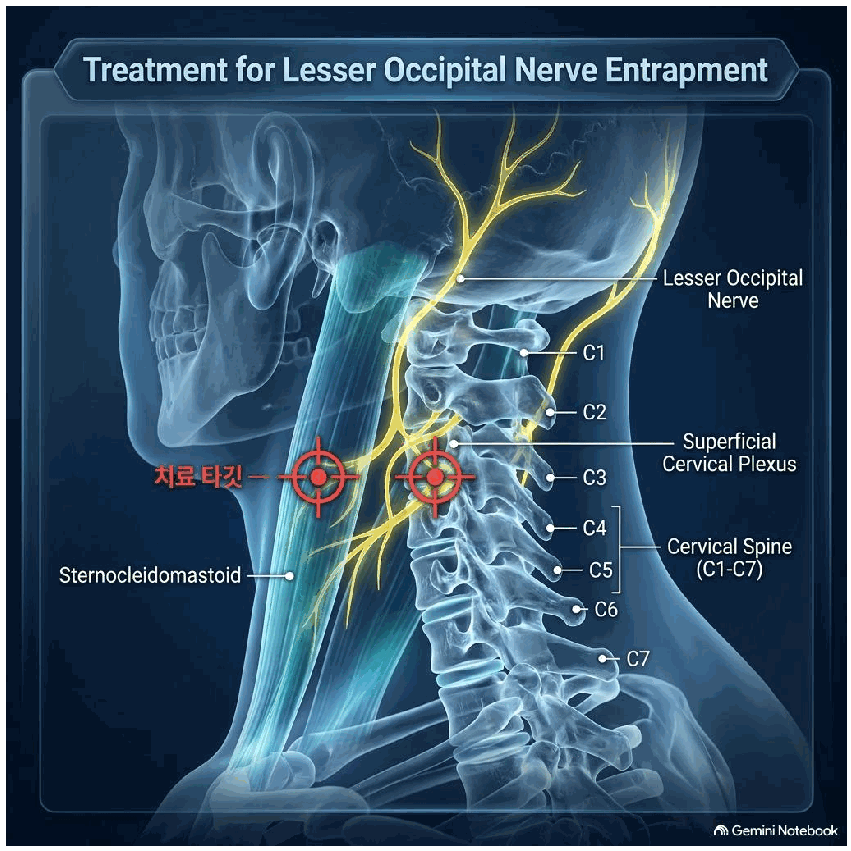
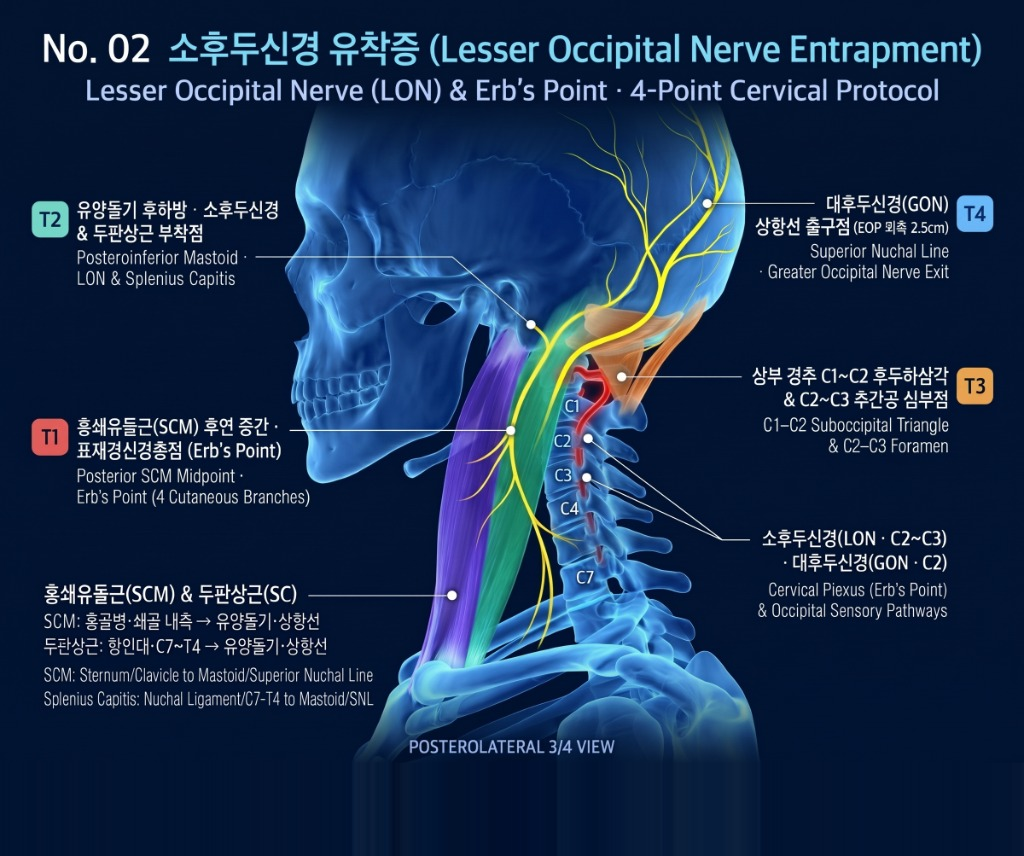
feat(healing-app): fix No.02 title to 소후두신경 유착증, upgrade LON plate, align T1-T4 pins

diff --git a/healing-app/js/pain_data.js b/healing-app/js/pain_data.js
@@ -270,13 +270,13 @@ window.PAIN_CONDITIONS = [
     },
     "mechanism": {
       "ko": "신경유착",
-      "en": "[신경유착] Nerve Entrapment"
+      "en": "Nerve Entrapment"
     },
     "mechTags": [
       "nerve"
     ],
     "title": {
-      "ko": "소두후신경 유착증",
+      "ko": "소후두신경 유착증",
       "en": "Lesser Occipital Nerve (LON) Entrapment"
     },
     "symptoms": {
@@ -288,12 +288,12 @@ window.PAIN_CONDITIONS = [
       "en": "Lesser occipital nerve (LON), a branch of superficial cervical plexus, is entrapped by trigger points in mid-SCM or C2/C3 intervertebral foramina / deep paraspinal muscles."
     },
     "targetTissues": {
-      "ko": "흉쇄유돌근(SCM) 중간 부위, C2/C3 추간공 및 척추주위 심부근육.",
-      "en": "Middle portion of sternocleidomastoid (SCM), C2/C3 intervertebral foramina, and deep paraspinal muscles."
+      "ko": "흉쇄유돌근(SCM · 기시: 흉골병·쇄골 내측 / 정지: 유양돌기·상항선), 두판상근(SC · 기시: 항인대·C7~T4 / 정지: 유양돌기·상항선), 표재경신경총(Erb's Point), 소후두신경(LON · C2~C3), 대후두신경(GON · C2) 및 C1~C2 후두하삼각.",
+      "en": "Sternocleidomastoid (SCM), Splenius Capitis (SC), Superficial Cervical Plexus (Erb's Point), Lesser Occipital Nerve (LON, C2-C3), Greater Occipital Nerve (GON, C2), and C1-C2 Suboccipital Triangle."
     },
     "palpation": {
-      "ko": "흉쇄유돌근(SCM) 후연 중간 지점(경신경총 4개 감각가지 분지점)을 집어 올렸을 때(pinch & roll) 뚜렷한 압통점.",
-      "en": "Distinct tenderness elicited by pinching and rolling (Pinch & Roll) posterior border of mid-SCM (branching point of 4 sensory branches of superficial cervical plexus)."
+      "ko": "① 흉쇄유돌근(SCM) 후연 중간 표재경신경총점(Erb's Point · Pinch & Roll 압통점) ② 유양돌기 후하방 소후두신경 & 두판상근 부착점 ③ 상부 경추 C1~C2 후두하삼각 & C2~C3 추간공 심부점 ④ 대후두신경(GON) 상항선 출구점(EOP 외측 2.5cm).",
+      "en": "1) Posterior SCM midpoint Erb's point (Pinch & Roll) 2) Posteroinferior mastoid LON & splenius capitis 3) C1-C2 suboccipital triangle & C2-C3 foramen 4) Superior nuchal line GON exit (2.5cm lateral to EOP)."
     },
     "clinicalCase": {
       "ko": "귀 뒤쪽과 후두부 외측의 바늘로 찌르는 듯한 박동성 신경통으로 수면 장애를 겪던 사례. 흉쇄유돌근(SCM) 후연 신경 유착 지점 및 C2, C3 분절에 NovaCell Therapy를 적용하여 신경 압박을 이완시켰으며, 시술 당일 통증 소실 및 편안한 숙면 회복.",
@@ -304,84 +304,84 @@ window.PAIN_CONDITIONS = [
       {
         "code": "T1",
         "color": "#ff334b",
-        "x": 37.1,
-        "y": 56.8,
+        "x": 49.8,
+        "y": 50.2,
         "role": {
           "ko": "주 신경포착점",
           "en": "Primary Nerve Entrapment"
         },
         "name": {
-          "ko": "T1: 흉쇄유돌근(SCM) 후연 중간 표재경신경총점 (Erb's Point)",
-          "en": "T1: SCM Posterior Border Erb's Point (LON Exit)"
+          "ko": "T1: 흉쇄유돌근(SCM) 후연 중간 · 표재경신경총점 (Erb's Point)",
+          "en": "T1: Posterior SCM Midpoint · Erb's Point (4 Cutaneous Branches)"
         },
         "desc": {
-          "ko": "[표적 해부] 표재경신경총 4대 피지 분기점(Erb's point) 및 소후두신경(LON, C2-C3).\n[촉지 및 시술] 흉쇄유돌근 후연 중간 지점을 집어 올릴 때(Pinch & Roll) 가장 예리한 압통점. 귀 뒤·측두부 바늘로 찌르는 통증의 1차 포착점입니다.",
-          "en": "Mid-posterior border of SCM (Erb's point) where Lesser Occipital Nerve emerges."
+          "ko": "[표적 해부] 표재경신경총 4대 피지 분기점(Erb's Point) 및 소후두신경(LON, C2~C3) 출구.\n[촉지 및 시술] 흉쇄유돌근 후연 중간 지점을 집어 올릴 때(Pinch & Roll) 가장 예리한 압통점. 귀 뒤·측두부 바늘로 찌르는 듯한 신경통의 1차 포착점입니다.",
+          "en": "Mid-posterior border of SCM (Erb's point) where the 4 cutaneous branches and Lesser Occipital Nerve emerge."
         }
       },
       {
         "code": "T2",
         "color": "#00f5d4",
-        "x": 56.0,
-        "y": 54.0,
+        "x": 51.8,
+        "y": 37.8,
         "role": {
           "ko": "힘줄·골막 부착점",
           "en": "Tendon & Periosteal Target"
         },
         "name": {
-          "ko": "T2: 유양돌기 후하방 소후두신경-두판상근 부착점 (골막 부착부)",
-          "en": "T2: Retro-Mastoid LON & Splenius Capitis Insertion"
+          "ko": "T2: 유양돌기 후하방 · 소후두신경 & 두판상근 부착점",
+          "en": "T2: Posteroinferior Mastoid · LON & Splenius Capitis"
         },
         "desc": {
-          "ko": "[표적 해부] 유양돌기 후하방 두판상근·흉쇄유돌근 상부 골막 부착부 및 소후두신경 상행로.\n[촉지 및 시술] 귀 뒤 유양돌기 바로 뒤쪽 오목한 골막 경계부(완골~풍지 구간). 귀 뒤쪽과 측두부 두피 통증을 즉각 소실시킵니다.",
-          "en": "Retro-mastoid groove at splenius capitis & SCM superior insertion."
+          "ko": "[표적 해부] 유양돌기 후하방 두판상근(SC)·흉쇄유돌근(SCM) 상부 골막 부착부 및 소후두신경(LON) 상행로.\n[촉지 및 시술] 귀 뒤 유양돌기 바로 뒤쪽 오목한 골막 경계부(완골~풍지 구간). 귀 뒤쪽과 측두부 두피 통증을 즉각 소실시킵니다.",
+          "en": "Posteroinferior mastoid groove at the splenius capitis & SCM insertion along the ascending LON pathway."
         }
       },
       {
         "code": "T3",
         "color": "#ff9f43",
-        "x": 49.0,
-        "y": 71.0,
+        "x": 60.7,
+        "y": 43.9,
         "role": {
           "ko": "후관절·신경근점",
           "en": "Facet & Nerve Root Target"
         },
         "name": {
-          "ko": "T3: 상부 경추 C1-C2 후두하삼각 및 C2-C3 추간공 심부점",
-          "en": "T3: Suboccipital Triangle (C1-C2) & C2-C3 Foramen"
+          "ko": "T3: 상부 경추 C1~C2 후두하삼각 & C2~C3 추간공 심부점",
+          "en": "T3: C1-C2 Suboccipital Triangle & C2-C3 Foramen"
         },
         "desc": {
-          "ko": "[표적 해부] 상·하두사근, 대후두직근 사이 후두하삼각 및 추골동맥 주위 교감신경총.\n[촉지 및 시술] 상항선 아래 C2 극돌기 외측 2cm 오목한 함요처. 뇌혈류 순환 촉진 및 후두신경 근위부 포착 해소 핵심 스위치입니다.",
-          "en": "Suboccipital triangle core & C2-C3 intervertebral foramen."
+          "ko": "[표적 해부] 상·하두사근, 대후두직근 사이 C1~C2 후두하삼각(추골동맥 주위 교감신경총) 및 C2~C3 추간공 심부.\n[촉지 및 시술] 상항선 아래 C2 극돌기 외측 2cm 오목한 함요처. 뇌혈류 순환 촉진 및 소후두·대후두신경 근위부 포착 해소 핵심 스위치입니다.",
+          "en": "Suboccipital triangle core (C1-C2) and C2-C3 intervertebral foramen relieving proximal occipital nerve tension."
         }
       },
       {
         "code": "T4",
         "color": "#38bdf8",
-        "x": 62.0,
-        "y": 38.0,
+        "x": 69.0,
+        "y": 23.7,
         "role": {
           "ko": "신경 주행·분지점",
           "en": "Nerve Pathway Target"
         },
         "name": {
-          "ko": "T4: 대후두신경 상항선 출구점 (외후두융기 외측 2.5cm)",
-          "en": "T4: Greater Occipital Nerve Superior Nuchal Line Exit"
+          "ko": "T4: 대후두신경(GON) 상항선 출구점 (EOP 외측 2.5cm)",
+          "en": "T4: Superior Nuchal Line · Greater Occipital Nerve Exit"
         },
         "desc": {
-          "ko": "[표적 해부] 대후두신경(C2 후지) 승모근 및 두반극근 부착건막 관통부.\n[촉지 및 시술] 외후두융기(EOP)에서 외측 2~2.5cm 상항선 바로 아래 압통점. 후두부~두정부 방사통을 동시 차단합니다.",
-          "en": "GON exit 2.5cm lateral to EOP just below superior nuchal line."
+          "ko": "[표적 해부] 대후두신경(GON, C2 후지)이 승모근 및 두반극근 부착건막을 관통해 나오는 상항선 출구.\n[촉지 및 시술] 외후두융기(EOP) 외측 2~2.5cm 상항선 바로 아래 압통점. 후두부에서 정수리로 뻗치는 연계 방사통을 동시 차단합니다.",
+          "en": "Greater occipital nerve exit 2.5cm lateral to the external occipital protuberance (EOP) along the superior nuchal line."
         }
       }
     ],
     "anatomicalLabels": [
-      "Lesser Occipital Nerve",
-      "Sternocleidomastoid (SCM)",
-      "Splenius Capitis",
-      "C2-C3 Cervical Root"
+      "Posterior SCM Midpoint · Erb's Point (4 Cutaneous Branches)",
+      "Posteroinferior Mastoid · LON & Splenius Capitis",
+      "C1-C2 Suboccipital Triangle & C2-C3 Foramen",
+      "Superior Nuchal Line · Greater Occipital Nerve (GON) Exit"
     ],
     "rifeFreq": 787,
-    "searchKeywords": "소두후신경 유착증 Lesser Occipital Nerve (LON) Entrapment 귀 뒤쪽, 목 전외측, 두피 옆면이 바늘로 콕콕 쑤시듯 아프고 피부 타진 시 극심한 자각통 발생. Stabbing, needle-like pain behind the ear, anterolateral neck, and lateral scalp, with severe tactile dysesthesia upon tapping. 두경부 및 안면 질환 Head, Neck & Facial Disorders"
+    "searchKeywords": "소후두신경 유착증 소후두신경통 귀 뒤쪽 통증 바늘로 찌르는 통증 표재경신경총 Erb's Point Lesser Occipital Nerve Entrapment LON 흉쇄유돌근 SCM 두판상근 유양돌기 후두하삼각 대후두신경 GON 두경부 및 안면 질환 Head Neck Facial Disorders"
   },
   {
     "id": 3,

diff --git a/healing-app/NovaCell_Healing_Points_Final_Build/js/pain_data.js b/healing-app/NovaCell_Healing_Points_Final_Build/js/pain_data.js
@@ -138,7 +138,7 @@ window.PAIN_CONDITIONS = [
                          "nerve"
                      ],
         "title":  {
-                      "ko":  "소두후신경 유착증",
+                      "ko":  "소후두신경 유착증",
                       "en":  "Lesser Occipital Nerve (LON) Entrapment"
                   },
         "symptoms":  {
@@ -191,7 +191,7 @@ window.PAIN_CONDITIONS = [
                                  "C2-C3 Cervical Root"
                              ],
         "rifeFreq":  787,
-        "searchKeywords":  "소두후신경 유착증 Lesser Occipital Nerve (LON) Entrapment 귀 뒤쪽, 목 전외측, 두피 옆면이 바늘로 콕콕 쑤시듯 아프고 피부 타진 시 극심한 자각통 발생. Stabbing, needle-like pain behind the ear, anterolateral neck, and lateral scalp, with severe tactile dysesthesia upon tapping. 두경부 및 안면 질환 Head, Neck \u0026 Facial Disorders"
+        "searchKeywords":  "소후두신경 유착증 Lesser Occipital Nerve (LON) Entrapment 귀 뒤쪽, 목 전외측, 두피 옆면이 바늘로 콕콕 쑤시듯 아프고 피부 타진 시 극심한 자각통 발생. Stabbing, needle-like pain behind the ear, anterolateral neck, and lateral scalp, with severe tactile dysesthesia upon tapping. 두경부 및 안면 질환 Head, Neck \u0026 Facial Disorders"
     },
     {
         "id":  3,
